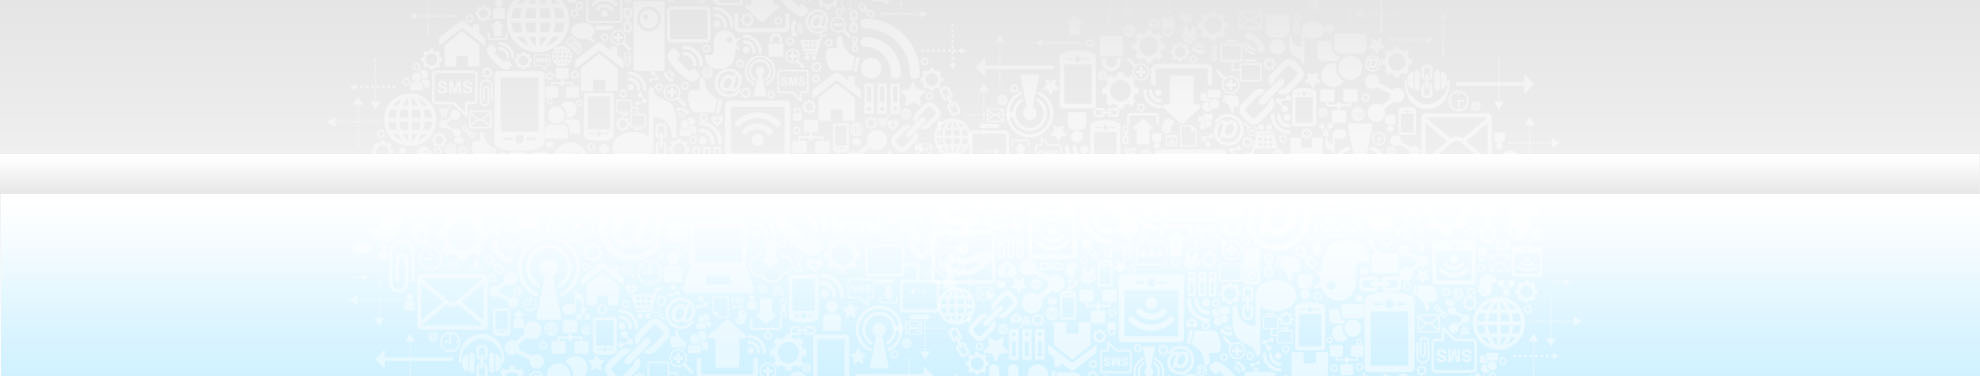
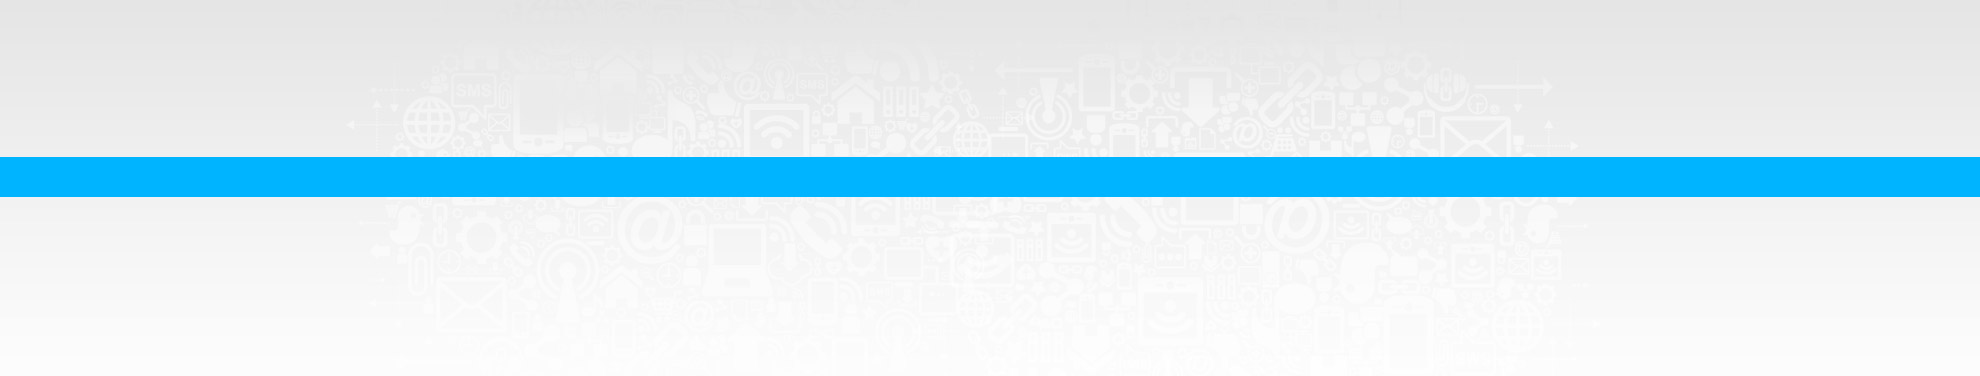
ajustessss

Changed region(s): [[0.0, 0.7899, 1.0, 1.0], [0.0, 0.4096, 1.0, 0.5266]]

diff --git a/public/stylesheets/geral.css b/public/stylesheets/geral.css
@@ -95,7 +95,7 @@ body{
 	top:-10px;
 	left:0px;
 	background-image:url('../images/bg_logo.jpg');
-	background-position:top center;
+	background-position: 0px -1px;
 	background-repeat:no-repeat;
 	width:100%;
 	height:207px;
@@ -117,7 +117,7 @@ body{
 /*  inicio header busca  */
 #header-busca{
 	position:absolute;
-	right:48px;
+	right:28px;
 	top:76px;
 	}
 
@@ -153,7 +153,7 @@ body{
 .nav a{
 	font-family: Tahoma;
 	font-size:15px;
-	color:#727272;
+	color:#fff;
 	font-weight:600;
 	text-decoration:none;
 	text-transform:uppercase!important;
@@ -164,17 +164,19 @@ body{
 	height:26px;
 	width:106px;
 	float:left;
-	color:#727272;
+	color:#fff;
 	font-weight:600;
 	text-decoration:none;
 	}
 
 .nav:hover{
-	background-color:#e4f6fd;
+	background-color:#0095d3;
 	}
 
 .nav-bg{
-	background-color:#efefef;
+	background-image:url('../images/hover_menu_trans.png');
+	background-position:top center;
+	background-repeat:repeat;
 	}
 
 #slider{
@@ -361,7 +363,7 @@ body{
 #footer{
 	position:relative;
 	background-image:url('../images/bg_bandeiras.png');
-	background-position:top center;
+	background-position: -42px 0px;
 	background-repeat:no-repeat;
 	width:100%;
 	height:100px;

diff --git a/public/stylesheets/interna.css b/public/stylesheets/interna.css
@@ -118,12 +118,12 @@ body{
 #header-nav{
 	position:relative;
 	float:left;
-	margin-top:13px;
+	margin-top: 16px;
 	}
 .nav a{
 	font-family: Tahoma;
 	font-size:15px;
-	color:#727272;
+	color:#fff;
 	font-weight:600;
 	text-decoration:none;
 	text-transform:uppercase!important;
@@ -138,11 +138,13 @@ body{
 	}
 
 .nav:hover{
-	background-color:#e4f6fd;
+	background-color:#0095d3;
 	}
 
 .nav-bg{
-	background-color:#efefef;
+	background-image:url('../images/hover_menu_trans.png');
+	background-position:top center;
+	background-repeat:repeat;
 	}
 
 #header-bread{
@@ -213,7 +215,7 @@ body{
 /*  inicio header busca  */
 #header-busca{
 	position:absolute;
-	right:48px;
+	right: -225px;
 	top:16px;
 	}
 
@@ -672,7 +674,8 @@ margin-bottom:20px;
 #footer{
 	position:relative;
 	background-image:url('../images/bg_bandeiras.png');
-	background-position:top center;
+	background-position: -493px 0px;
+
 	background-repeat:no-repeat;
 	width:100%;
 	height:100px;

diff --git a/public/stylesheets/carrinho.css b/public/stylesheets/carrinho.css
@@ -1,3 +1,7 @@
+form{
+width: 960px!important;
+padding-left:11px;
+}
 #contet-top-fim h1{
 	width:950px;
 	height:35px;
@@ -27,8 +31,7 @@
 	}
 
 #content-itens a img{
-	margin-top:20px;
-	margin-left:25px;
+
 	}
 #tabela-carrinho{
 	width:960px;
@@ -73,7 +76,8 @@
 		}
 		.cel-alt-quant a img
 		{
-			margin-top: 0px !important;
+	
+			
 			margin-left: 0px !important;
 		}
 
@@ -86,13 +90,13 @@
 #cel-quantidade{
 	background-color:#FFFFFF;
 	border:1px solid #CCC;
-	width:60px;
-	height:50px;
-	display:table-cell;
-	vertical-align:middle;
-	font-family:Arial, Helvetica, sans-serif;
-	font-size:25px;
-	color:#939393;
+	width: 60px;
+	height: 28px;
+	font-family: Arial, Helvetica, sans-serif;
+	font-size: 25px;
+	color: #939393;
+	padding-top: 5px;
+	padding-bottom: 5px;
 	}
 
 #prazos p{

diff --git a/public/stylesheets/reset.css b/public/stylesheets/reset.css
@@ -16,7 +16,6 @@ time, mark, audio, video {
 	border: 0;
 	font-size: 100%;
 	font: inherit;
-	vertical-align: baseline;
 }
 /* HTML5 display-role reset for older browsers */
 article, aside, details, figcaption, figure, 
